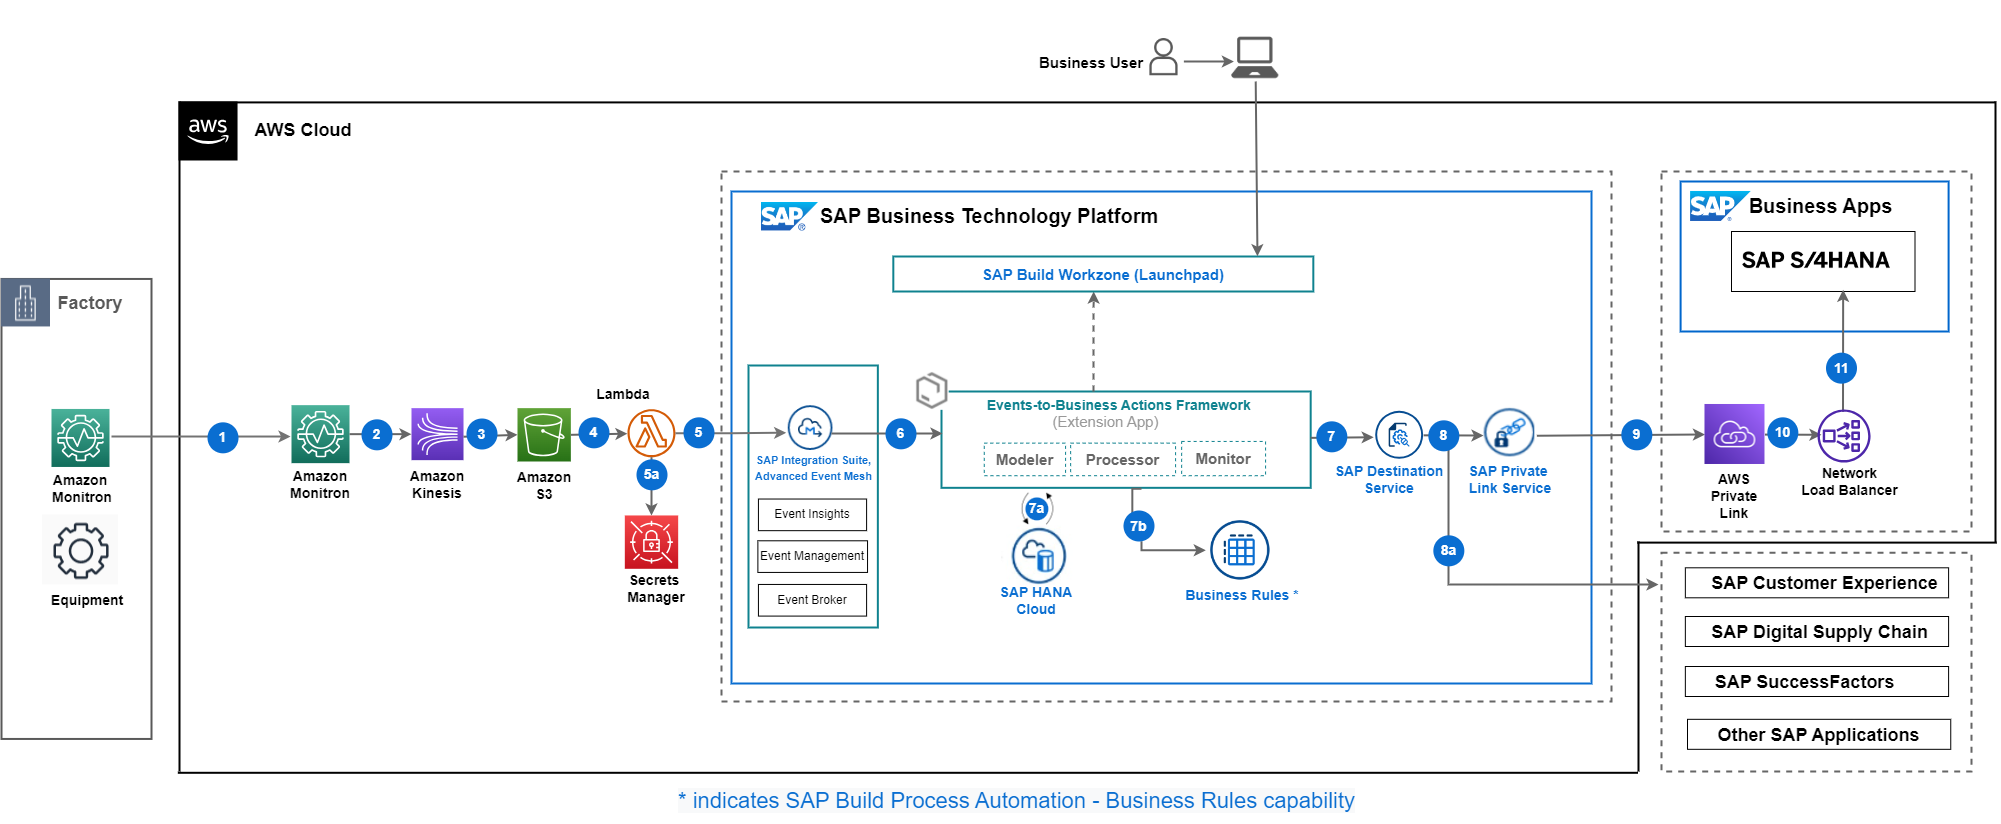
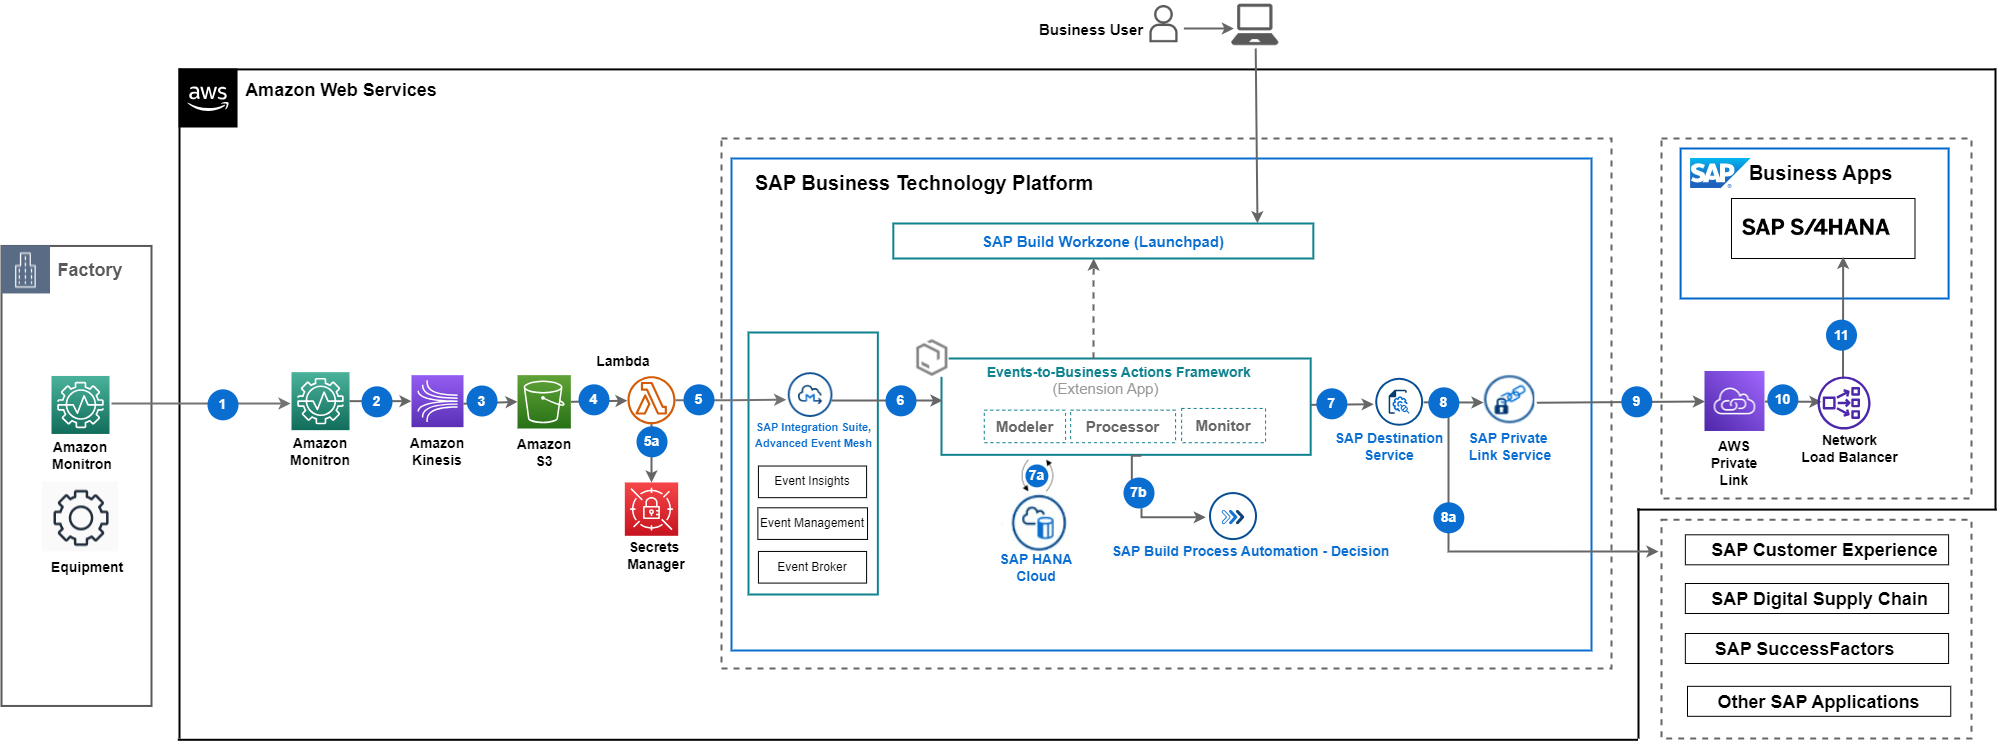
Updated Architecture diagram

diff --git a/README.md b/README.md
@@ -44,11 +44,11 @@ The following steps depicts the information flow across systems:
 
 (2) and (3) Amazon Kinesis streams the sensor data from Amazon Monitron and dumps it into the Amazon S3 bucket.
 
-(4) AWS Lambda is a serverless function, which will orchestrate the process of detecting a stream contains any alerts related to failure or warnings, and then the inference result is passed to SAP Advanced Event Mesh.
+(4) AWS Lambda is a serverless function, which will orchestrate the process of detecting a stream contains any alerts related to failure or warnings, and then the inference result is passed to SAP Integration Suite, Advanced Event Mesh.
 
-(5a) AWS secrets manager is used to store credentials, these are used by the lambda function to provide payload to SAP Advanced Event Mesh.
+(5a) AWS secrets manager is used to store credentials, these are used by the lambda function to provide payload to SAP Integration Suite, Advanced Event Mesh.
 
-(5) Event-to-Business-Action framework(extension app) processor module's endpoint is subscribed to SAP Advanced Event Mesh, hence receives this event.
+(5) Event-to-Business-Action framework(extension app) processor module's endpoint is subscribed to SAP Integration Suite, Advanced Event Mesh, hence receives this event.
 
 (6) Event-to-Business-Action framework(extension app) processor module leverages the Business Rules capability of SAP Build Process Automation to derive business action (for example, In this scenario, Plant Maintenance Notification creation in SAP S/4HANA system) based on certain characteristics of incoming event.
 
@@ -80,7 +80,7 @@ These are the technical prerequistics for an integration between AWS IoT Core, S
 - A valid AWS subscription
 - **Amazon Monitron** - Required for receiving and sending the events whenever an abnormality is detected in the equipment.
 - **Amazon S3** - Required to store the received streaming event data.
-- **AWS Secrets Manager** - Required to store the Advanced Event Mesh credentials that are accessed by the Amazon Lambda Function.
+- **AWS Secrets Manager** - Required to store the SAP Integration, Advanced Event Mesh credentials that are accessed by the Amazon Lambda Function.
 - **Amazon Lambda Function** - Required to orchestrate the process of detecting a stream contains any alerts related to failure or warnings, and then the inference result is passed to SAP Integration Suite Advanced Event Mesh.
 
 ## Configuration and Development
@@ -105,11 +105,11 @@ Step 3: Connect SAP BTP and SAP S/4HANA
 
 [Step 5: Setup AWS Account](./documentation/Step5-Setup-AWS/README.md)
 
-[Step 6: Create SAP Business Rules Project](./documentation/Step6-Configure-BusinessRules-Part1/README.md)
+[Step 6: Create SAP Build Process Automation - Decision Project](./documentation/Step6-Configure-Decisions-Part1/README.md)
 
 [Step 7: Configure SAP S/4HANA Business Actions in the extension application](./documentation/Step7-Configure-BusinessActions/README.md)
 
-[Step 8: Update and Activate SAP Business Rule Project](./documentation/Step8-Configure-BusinessRules-Part2/README.md)
+[Step 8: Update and Deploy SAP Build Process Automation - Decision Project](./documentation/Step8-Configure-Decisions-Part2/README.md)
 
 [Step 9: Test the Extension Application](./documentation/Step9-Test-ExtensionApplication/README.md)
 
